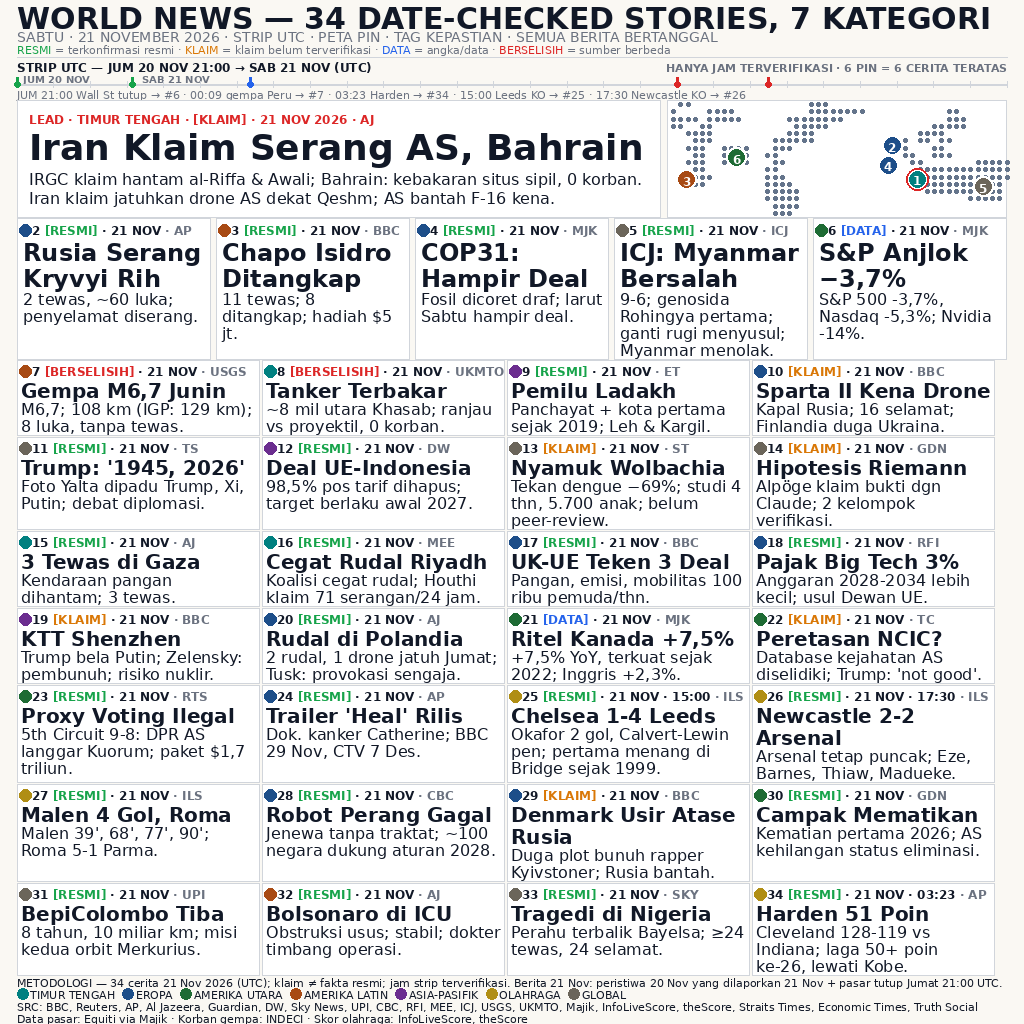
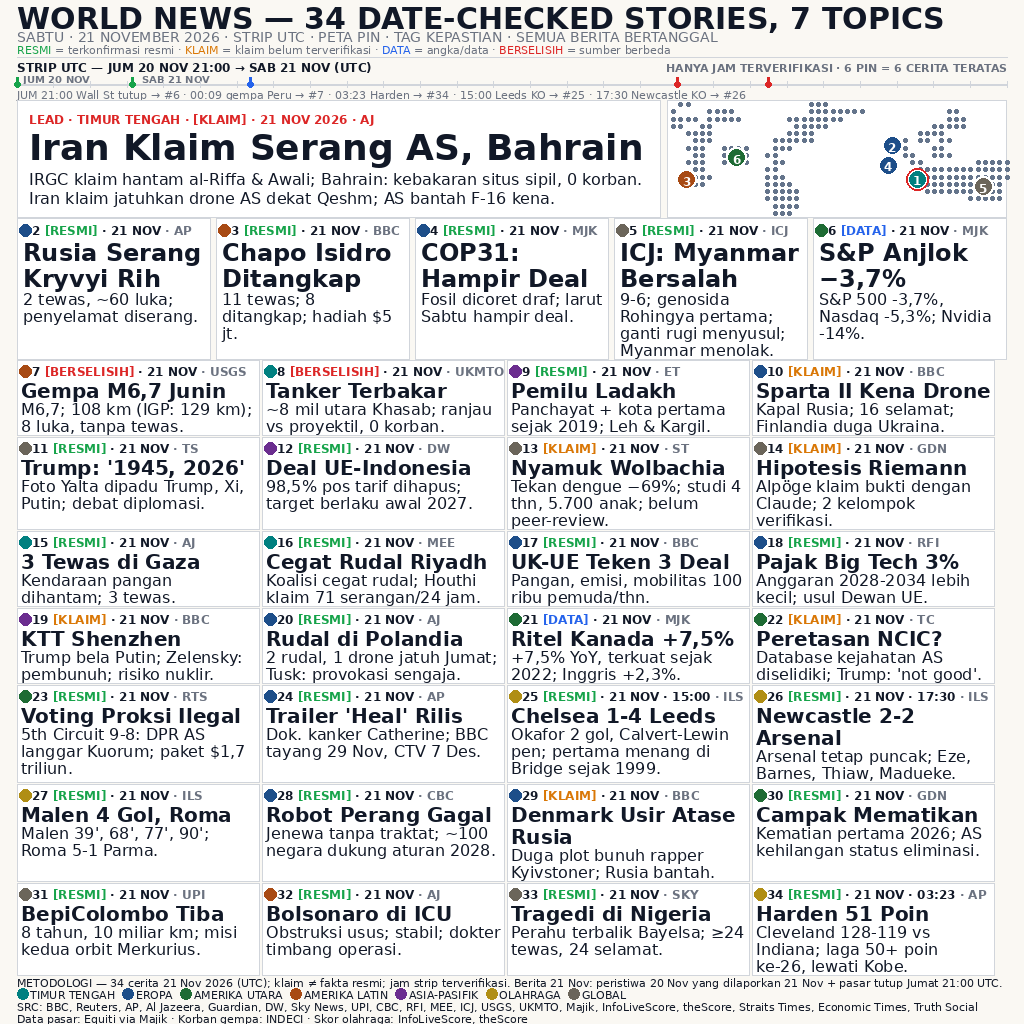
v8.6: 4 micro-fix teks per rev8.6 brief — #23 'Voting Proksi Ilegal', #24 tambah 'tayang', #14 'dgn'->'dengan', h1 '7 TOPICS' (927,8px); tanpa ubah geometri/font

diff --git a/stories_v8_6.py b/stories_v8_6.py
@@ -1,0 +1,211 @@
+# Data v8.6 — 34 cerita, 1 kartu = 1 cerita (polish atas v8.5, brief rev8.6).
+# Perubahan data vs v8.5 (tiga string, SEMUA terukur dgn font PIL asli):
+# A1 judul #23 "Proxy Voting Ilegal" -> "Voting Proksi Ilegal" (219,9px <=
+# 235px @20px bold). A2 badan #24 tambah "tayang" (2 baris 222/216px @16px;
+# subjek "Dok. kanker Catherine;" DIPERTAHANKAN). A3 badan #14 "dgn" ->
+# "dengan" (tetap 3 baris 215/159/77px @16px). A4 h1 "7 KATEGORI" ->
+# "7 TOPICS" (927,8px <= 990px) hanya ubah build_image.py, bukan data.
+# File baru ini ada agar build_image.py mengimpor stories_v8_6 (jejak versi bersih).
+# Tuple: (num, group, title, body, tag, time_utc_or_None, lon, lat, source)
+# SEMUA kartu punya source (34/34, dari log verifikasi OneTurn 21 Nov +
+# Majik — BUKAN tebakan). Sumber v8/v8.1 dipertahankan.
+# #7: "6,9" adalah estimasi OTOMATIS yg direvisi ke 6,7 — JANGAN dipakai.
+#   [BERSELISIH] = beda kedalaman USGS 108 km vs IGP 129 km; korban Indeci.
+# #16 tag TETAP [RESMI] (tag = kepastian klaim UTAMA cegatan koalisi;
+#   angka 71 membawa atribusi sendiri "Houthi klaim"). #19/#13 TETAP [KLAIM].
+# #20: jam pasti TAK ADA di riset -> "Jumat", bukan "20 Nov".
+# #25: Chelsea tuan rumah; Emegha cetak gol UNTUK CHELSEA (jangan cantumkan
+#   sbg pencetak gol Leeds).
+# #10: subjek "diduga" = Finlandia (terverifikasi). #29: subjek = Denmark.
+# PERUBAHAN v8.3 vs v8.2 (brief rev8.3, TERUKUR dgn font PIL asli):
+# - #2: badan "2 tewas, ~60 luka; penyelamat diserang." (2 baris, maks
+#   175,1px/182px); usia (anak 7, paramedis 20) DIBUANG — pluralitas
+#   ronde v8.2 (Claude, Kimi, MiniMax) minta "~60 luka" kembali; gabungan
+#   usia + hitungan = 4 baris, tak muat 3 baris.
+# - #10: judul "Sparta II Kena drone" (1 baris, 233,1px/235px) + badan
+#   "Kapal Rusia; 16 selamat; Finlandia duga Ukraina." (2 baris);
+#   "Kapal Rusia" kembali, "Terbakar" (terbaca kecelakaan) -> "Kena drone".
+# - #13: badan "Tekan dengue −69%; ..." (minus U+2212, seragam dgn #6).
+# - #16: judul "Cegat Rudal Riyadh" (1 baris, 221,2px/235px); badan + tag
+#   [RESMI] TETAP.
+# - #27: badan "Malen 39', 68', 77', 90'; Roma 5-1 Parma." (2 baris;
+#   baris ke-2 137,5px <= 220px); "Mora 71';" DIBUANG (gol Parma).
+# - #34: badan "Cleveland 128-119 vs Indiana; laga 50+ poin ke-26,
+#   lewati Kobe." (3 baris; "game" -> "laga 50+ poin").
+# DEVIASI TERUKUR vs brief rev8.3 (dilaporkan ke parent):
+# - A2 judul target "Sparta II Kena Drone" = 235,4px > anggaran 235px
+#   (lebih 0,4px) -> dipakai "Sparta II Kena drone" (233,1px; huruf 'd'
+#   kecil — "drone" kata benda umum, bukan nama diri; fakta drone utuh).
+#   Alternatif "Sparta II Diserang" (204,8px) DITOLAK karena membuang
+#   fakta drone dari kartu.
+# - A3 judul target "Rudal Riyadh Dicegat" = 241,9px > 235px (juga
+#   alternatif Kimi "Riyadh: Rudal Dicegat" 249,9px) -> dipakai
+#   "Cegat Rudal Riyadh" (221,2px; kata kerja + objek + tempat —
+#   tak ambigu: yg dicegat jelas "Rudal", "Riyadh" tempatnya).
+# PERUBAHAN v8.4 vs v8.3 (brief rev8.4, TERUKUR dgn font PIL asli):
+# - A1 DIBLOKIR: judul target #10 "Drone Serang Sparta II" = 258,8px
+#   > anggaran 235px (lebih 23,8px) — klaim Nemotron "~206px" SALAH
+#   (~53px). Judul #10 TETAP "Sparta II Kena drone" (233,1px). Alternatif
+#   terukur (utk parent, BUKAN diterapkan): "Sparta Kena Drone" 213,5px
+#   (buang "II" dari nama kapal), "Sparta II Kena UAV" 212,6px (jargon),
+#   "Sparta II Diserang"/"Sparta II Dihantam" 204,8/213,3px (buang fakta
+#   drone), "Sparta II Kena Drone" 235,4px (lebih 0,4px). Font TIDAK
+#   dikecilkan (dilarang). Brief: bila tak muat, LAPORKAN — dilakukan.
+# - A2 (footer src1, di build_image.py): "InfoLiveScore, theScore"
+#   dipulihkan; dana "Middle East Eye" -> "MEE" (kode meta #16 sendiri).
+STORIES = [
+    # 1 — LEAD (Timur Tengah)
+    (1, "TIMUR TENGAH", "Iran Klaim Serang AS, Bahrain",
+     "IRGC klaim hantam al-Riffa & Awali; Bahrain: kebakaran situs sipil, "
+     "0 korban. Iran klaim jatuhkan drone AS dekat Qeshm; AS bantah F-16 kena.",
+     "KLAIM", None, 50.5, 26.2, "Al Jazeera"),
+    # 2–6 — SEKUNDER
+    (2, "EROPA", "Rusia Serang Kryvyi Rih",
+     "2 tewas, ~60 luka; penyelamat diserang.",
+     "RESMI", None, 33.4, 47.9, "AP"),
+    (3, "AMERIKA LATIN", "Chapo Isidro Ditangkap",
+     "11 tewas; 8 ditangkap; hadiah $5 jt.",
+     "RESMI", None, -108.5, 25.6, "BBC"),
+    (4, "EROPA", "COP31: Hampir Deal",
+     "Fosil dicoret draf; larut Sabtu hampir deal.",
+     "RESMI", None, 30.7, 36.9, "Majik"),
+    (5, "GLOBAL", "ICJ: Myanmar Bersalah",
+     "9-6; genosida Rohingya pertama; ganti rugi menyusul; Myanmar menolak.",
+     "RESMI", None, 96.0, 21.0, "ICJ"),
+    (6, "AMERIKA UTARA", "S&P Anjlok −3,7%",
+     "S&P 500 -3,7%, Nasdaq -5,3%; Nvidia -14%.",
+     "DATA", "21:00", -74.0, 40.7, "Majik"),
+    # 7–12 — REGULER
+    (7, "AMERIKA LATIN", "Gempa M6,7 Junin",
+     "M6,7; 108 km (IGP: 129 km); 8 luka, tanpa tewas.",
+     "BERSELISIH", "00:09", -75.0, -11.0, "USGS"),
+    (8, "TIMUR TENGAH", "Tanker Terbakar",
+     "~8 mil utara Khasab; ranjau vs proyektil, 0 korban.",
+     "BERSELISIH", None, 56.2, 26.2, "UKMTO"),
+    (9, "ASIA-PASIFIK", "Pemilu Ladakh",
+     "Panchayat + kota pertama sejak 2019; Leh & Kargil.",
+     "RESMI", None, 77.6, 34.2, "Economic Times"),
+    (10, "EROPA", "Sparta II Kena Drone",
+     "Kapal Rusia; 16 selamat; Finlandia duga Ukraina.",
+     "KLAIM", None, 25.0, 59.8, "BBC"),
+    (11, "GLOBAL", "Trump: '1945, 2026'",
+     "Foto Yalta dipadu Trump, Xi, Putin; debat diplomasi.",
+     "RESMI", None, 116.4, 39.9, "Truth Social"),
+    (12, "ASIA-PASIFIK", "Deal UE-Indonesia",
+     "98,5% pos tarif dihapus; target berlaku awal 2027.",
+     "RESMI", None, 106.8, -6.2, "DW"),
+]
+
+STORIES += [
+    (13, "GLOBAL", "Nyamuk Wolbachia",
+     "Tekan dengue −69%; studi 4 thn, 5.700 anak; belum peer-review.",
+     "KLAIM", None, -48.0, -15.0, "Straits Times"),
+    (14, "GLOBAL", "Hipotesis Riemann",
+     "Alpöge klaim bukti dengan Claude; 2 kelompok verifikasi.",
+     "KLAIM", None, -122.4, 37.8, "Guardian"),
+    (15, "TIMUR TENGAH", "3 Tewas di Gaza",
+     "Kendaraan pangan dihantam; 3 tewas.",
+     "RESMI", None, 34.5, 31.5, "Al Jazeera"),
+    (16, "TIMUR TENGAH", "Cegat Rudal Riyadh",
+     "Koalisi cegat rudal; Houthi klaim 71 serangan/24 jam.",
+     "RESMI", None, 42.8, 14.8, "Middle East Eye"),
+    (17, "EROPA", "UK-UE Teken 3 Deal",
+     "Pangan, emisi, mobilitas 100 ribu pemuda/thn.",
+     "RESMI", None, 4.4, 50.8, "BBC"),
+    (18, "EROPA", "Pajak Big Tech 3%",
+     "Anggaran 2028-2034 lebih kecil; usul Dewan UE.",
+     "RESMI", None, 4.4, 50.8, "RFI"),
+    (19, "ASIA-PASIFIK", "KTT Shenzhen",
+     "Trump bela Putin; Zelensky: pembunuh; risiko nuklir.",
+     "KLAIM", None, 114.0, 22.5, "BBC"),
+    (20, "EROPA", "Rudal di Polandia",
+     "2 rudal, 1 drone jatuh Jumat; Tusk: provokasi sengaja.",
+     "RESMI", None, 21.0, 52.2, "Al Jazeera"),
+    (21, "AMERIKA UTARA", "Ritel Kanada +7,5%",
+     "+7,5% YoY, terkuat sejak 2022; Inggris +2,3%.",
+     "DATA", None, -75.7, 45.4, "Majik"),
+    (22, "AMERIKA UTARA", "Peretasan NCIC?",
+     "Database kejahatan AS diselidiki; Trump: 'not good'.",
+     "KLAIM", None, -77.0, 38.9, "TechCrunch"),
+    (23, "AMERIKA UTARA", "Voting Proksi Ilegal",
+     "5th Circuit 9-8: DPR AS langgar Kuorum; paket $1,7 triliun.",
+     "RESMI", None, -77.0, 38.9, "Reuters"),
+    (24, "EROPA", "Trailer 'Heal' Rilis",
+     "Dok. kanker Catherine; BBC tayang 29 Nov, CTV 7 Des.",
+     "RESMI", None, -0.1, 51.5, "AP"),
+]
+
+STORIES += [
+    (25, "OLAHRAGA", "Chelsea 1-4 Leeds",
+     "Okafor 2 gol, Calvert-Lewin pen; pertama menang di Bridge "
+     "sejak 1999.",
+     "RESMI", "15:00", -0.1, 51.5, "InfoLiveScore"),
+    (26, "OLAHRAGA", "Newcastle 2-2 Arsenal",
+     "Arsenal tetap puncak; Eze, Barnes, Thiaw, Madueke.",
+     "RESMI", "17:30", -1.6, 54.98, "InfoLiveScore"),
+    (27, "OLAHRAGA", "Malen 4 Gol, Roma",
+     "Malen 39', 68', 77', 90'; Roma 5-1 Parma.",
+     "RESMI", None, 10.3, 44.8, "InfoLiveScore"),
+    (28, "EROPA", "Robot Perang Gagal",
+     "Jenewa tanpa traktat; ~100 negara dukung aturan 2028.",
+     "RESMI", None, 6.1, 46.2, "CBC"),
+    (29, "EROPA", "Denmark Usir Atase Rusia",
+     "Duga plot bunuh rapper Kyivstoner; Rusia bantah.",
+     "KLAIM", None, 12.6, 55.7, "BBC"),
+    (30, "AMERIKA UTARA", "Campak Mematikan",
+     "Kematian pertama 2026; AS kehilangan status eliminasi.",
+     "RESMI", None, -77.5, 37.5, "Guardian"),
+    (31, "GLOBAL", "BepiColombo Tiba",
+     "8 tahun, 10 miliar km; misi kedua orbit Merkurius.",
+     "RESMI", None, None, None, "UPI"),
+    (32, "AMERIKA LATIN", "Bolsonaro di ICU",
+     "Obstruksi usus; stabil; dokter timbang operasi.",
+     "RESMI", None, -47.9, -15.8, "Al Jazeera"),
+    (33, "GLOBAL", "Tragedi di Nigeria",
+     "Perahu terbalik Bayelsa; ≥24 tewas, 24 selamat.",
+     "RESMI", None, 6.3, 4.9, "Sky News"),
+    (34, "OLAHRAGA", "Harden 51 Poin",
+     "Cleveland 128-119 vs Indiana; laga 50+ poin ke-26, lewati Kobe.",
+     "RESMI", "03:23", -81.7, 41.5, "AP"),
+]
+
+# Warna titik region (dipakai badge meta + pin peta). Border kartu NETRAL.
+GROUP_COLOR = {
+    "TIMUR TENGAH": (0, 128, 128),
+    "EROPA": (29, 78, 137),
+    "AMERIKA UTARA": (30, 107, 52),
+    "AMERIKA LATIN": (168, 74, 20),
+    "ASIA-PASIFIK": (107, 45, 143),
+    "OLAHRAGA": (176, 142, 20),
+    "GLOBAL": (107, 101, 90),
+}
+GROUP_ORDER = ["TIMUR TENGAH", "EROPA", "AMERIKA UTARA", "AMERIKA LATIN",
+               "ASIA-PASIFIK", "OLAHRAGA", "GLOBAL"]
+
+# (REGION_CODE v8 DIHAPUS — B1: meta seragam 4-segmen, tanpa kode region.
+# Region tetap terkode lewat DOT WARNA 12px + legenda footer nama penuh.)
+
+# Pin peta v8.2 (= v8.1): HANYA 6 cerita teratas (lead + 5 sekunder).
+# #2 (0,-2) + #4 (0,+2): pusat 20,33px — halo 20px TIDAK bersentuhan;
+# assert tabrakan memakai diameter halo (20px), bukan dot (16px).
+PINS_V8_2 = [
+    (1, 0, 0), (2, 0, -2), (3, 0, 0), (4, 0, 2), (5, 0, 0), (6, 0, 0),
+]
+
+# Kartu reguler yg membawa jam di meta (pengganti kode region): #25/#26/#34.
+TIME_IN_META = {25, 26, 34}
+
+# Singkatan sumber untuk meta 12px (footer menulis nama penuh).
+SRC_SHORT = {
+    "Middle East Eye": "MEE",
+    "InfoLiveScore": "ILS",
+    "Al Jazeera": "AJ",
+    "TechCrunch": "TC",
+    "Guardian": "GDN",
+    "Reuters": "RTS",
+    "Sky News": "SKY",
+    "Majik": "MJK",
+    "Straits Times": "ST",
+    "Economic Times": "ET",
+    "Truth Social": "TS",
+}

diff --git a/build_image.py b/build_image.py
@@ -1,17 +1,15 @@
 #!/usr/bin/env python3
-"""Render entry.png 1024x1024 — news-image-20261121 v8.5 (brief rev8.5).
+"""Render entry.png 1024x1024 — news-image-20261121 v8.6 (brief rev8.6).
 
-v8.5 = polish atas v8.4 (34 cerita, 1 kartu = 1 cerita, lead + 5 sekunder +
-28 reguler 4x7). 3 micro-fix (brief rev8.5) — TANPA ubah geometri:
-- A1 DIBLOKIR terukur: h1 "7 CATEGORIES" = 1014,9px > 990px (lama
-  "7 KATEGORI" 974,0px) -> h1 TETAP "7 KATEGORI". Alternatif "34 DATED
-  STORIES, 7 CATEGORIES" muat (869,1px) tapi buang kata "DATE-CHECKED" —
-  TIDAK diterapkan (perubahan copy tak diotorisasi brief); dilaporkan.
-- A2 footer: teks footer (l1, nama legenda region, src1, src2) MUTED ->
-  INK (kontras maks, tanpa ubah ukuran font/geometri). MUTED global TETAP.
-- A3 judul #10 "Sparta II Kena Drone" (kapital D, data v8.5) digambar dgn
-  tracking -0,06px/celah (terukur 234,6px <= 235px; string penuh 235,4px).
-  Helper draw_tracked HANYA utk judul #10; 33 kartu lain tak tersentuh.
+v8.6 = polish atas v8.5 (34 cerita, 1 kartu = 1 cerita, lead + 5 sekunder +
+28 reguler 4x7). 4 micro-fix teks (brief rev8.6) — TANPA ubah geometri:
+- A1 judul #23 "Proxy Voting Ilegal" -> "Voting Proksi Ilegal" (219,9px
+  <= 235px @20px bold; data v8.6). A2 badan #24 tambah "tayang" (2 baris
+  222/216px @16px; subjek DIPERTAHANKAN). A3 badan #14 "dgn" -> "dengan"
+  (tetap 3 baris 215/159/77px @16px).
+- A4 h1 "7 KATEGORI" -> "7 TOPICS" (927,8px <= 990px @30px bold) — h1
+  sepenuhnya Inggris TANPA buang "DATE-CHECKED". "7 CATEGORIES" TETAP
+  DIBLOKIR (1014,9px > 990px, terukur v8.5).
 
 v8.4 = polish atas v8.3 (34 cerita, 1 kartu = 1 cerita, lead + 5 sekunder +
 28 reguler 4x7). 1 edit footer + 1 target judul DIBLOKIR terukur — TANPA
@@ -60,7 +58,7 @@ Leading badan 17px (16px font — lantai, tidak pernah dikecilkan).
 from PIL import Image, ImageDraw, ImageFont
 import os, sys
 sys.path.insert(0, os.path.dirname(os.path.abspath(__file__)))
-from stories_v8_5 import (STORIES, PINS_V8_2, GROUP_COLOR, GROUP_ORDER,
+from stories_v8_6 import (STORIES, PINS_V8_2, GROUP_COLOR, GROUP_ORDER,
                          SRC_SHORT, TIME_IN_META)
 
 W, H = 1024, 1024
@@ -307,7 +305,7 @@ def draw_meta(draw, s, x, y, card_w):
     return mt
 
 def draw_header(draw):
-    h1 = "WORLD NEWS — 34 DATE-CHECKED STORIES, 7 KATEGORI"
+    h1 = "WORLD NEWS — 34 DATE-CHECKED STORIES, 7 TOPICS"
     assert tw(draw, h1, f(30, True)) <= 990, "h1 terlalu lebar"
     draw.text((MARGIN, 1), h1, font=f(30, True), fill=INK)
     # h2 HURUF BESAR SEMUA (tanpa descender — memberi ruang utk legenda tag)
